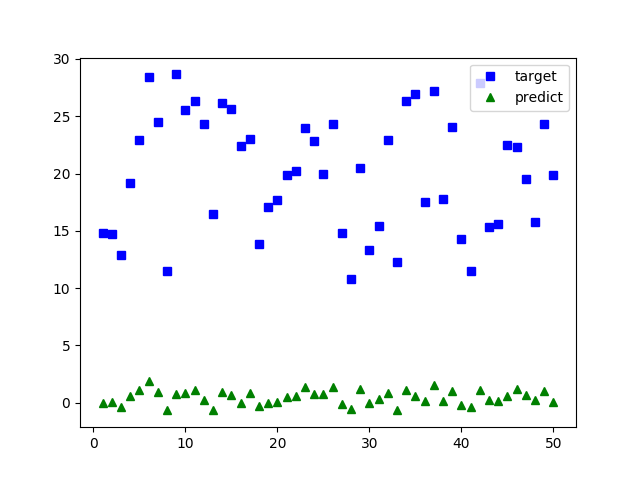
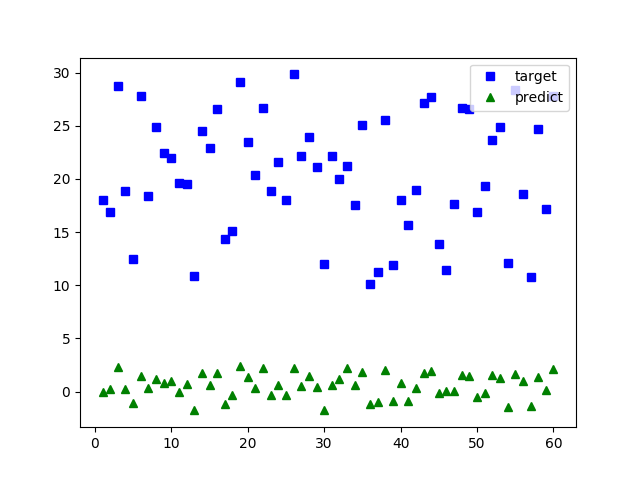
test

diff --git a/lorenz_nn.py b/lorenz_nn.py
@@ -10,7 +10,7 @@ from torch.autograd import Variable
 my_path = '/home/peiguo/Lorenz_MLP/training_fig'
 my_results_path_rela = '/home/peiguo/Lorenz_MLP/results/rela_error' 
 my_results_path_abso = '/home/peiguo/Lorenz_MLP/results/abso_error' 
-total_samples = 50
+total_samples = 60
 
 def dataset(total_samples):
     def f(state,t):
@@ -247,28 +247,32 @@ print(rela_error_sigma)
 print(rela_error_rho)
 print(rela_error_beta)
 
+plt.figure(1)
 x_axis1 = np.arange(1,EPOCH+1)
 print(x_axis1)
-plt.subplot(x_axis1, error_all, 'r--', x_axis1, error_sigma, 'bs', x_axis1, error_rho, 'g^', x_axis1, error_beta, 'y*')
+plt.plot(x_axis1, error_all, 'r--', x_axis1, error_sigma, 'bs', x_axis1, error_rho, 'g^', x_axis1, error_beta, 'y*')
 label = ['all', 'sigma', 'rho', 'beta']
 plt.legend(label, loc='upper right')
 my_results_file1 = 'all_epoch_par1'
 plt.savefig(os.path.join(my_results_path_abso, my_results_file1))
 
-
+plt.figure(2)
 x_axis3 = np.arange(1,EPOCH+1)
-plt.subplot(x_axis3, rela_error_all, 'r--', x_axis3, rela_error_sigma, 'bs', x_axis3, rela_error_rho, 'g^', x_axis3, rela_error_beta, 'y*')
+plt.plot(x_axis3, rela_error_all, 'r--', x_axis3, rela_error_sigma, 'bs', x_axis3, rela_error_rho, 'g^', x_axis3, rela_error_beta, 'y*')
 label = ['all', 'sigma', 'rho', 'beta']
 plt.legend(label, loc='upper right')
 my_results_file3 = 'rela_all_epoch_par1'
 plt.savefig(os.path.join(my_results_path_rela, my_results_file3))
-"""
+
+plt.figure(3)
 x_axis0 = np.arange(1,total_samples + 1)
 plt.plot(x_axis0, target_rho, 'bs', x_axis0, pred_rho, 'g^')
 label = [ 'target', 'predict']
 plt.legend(label, loc='upper right')
 my_results_file0 = 'rho_last_epoch_par1'
 plt.savefig(os.path.join(my_results_path_abso, my_results_file0))
+
+plt.figure(4)
 x_axis2 = np.arange(1,total_samples + 1)
 plt.plot(x_axis2, error_all_lastep, 'r--', x_axis2, error_sigma_lastep, 'bs', x_axis2, error_rho_lastep, 'g^', x_axis2, error_beta_lastep, 'y*')
 label = ['all', 'sigma', 'rho', 'beta']
@@ -276,12 +280,13 @@ plt.legend(label, loc='upper right')
 my_results_file2 = 'last_epoch_par1'
 plt.savefig(os.path.join(my_results_path_abso, my_results_file2))
 
+plt.figure(5)
 x_axis4 = np.arange(1,total_samples + 1)
 plt.plot(x_axis4, rela_error_all_lastep, 'r--', x_axis4, rela_error_sigma_lastep, 'bs', x_axis4, rela_error_rho_lastep, 'g^', x_axis4, rela_error_beta_lastep, 'y*')
 label = ['all', 'sigma', 'rho', 'beta']
 plt.legend(label, loc='upper right')
 my_results_file4 = 'rela_last_epoch_par1'
 plt.savefig(os.path.join(my_results_path_rela, my_results_file4))
-"""
+
 # Plot the relative error
 
